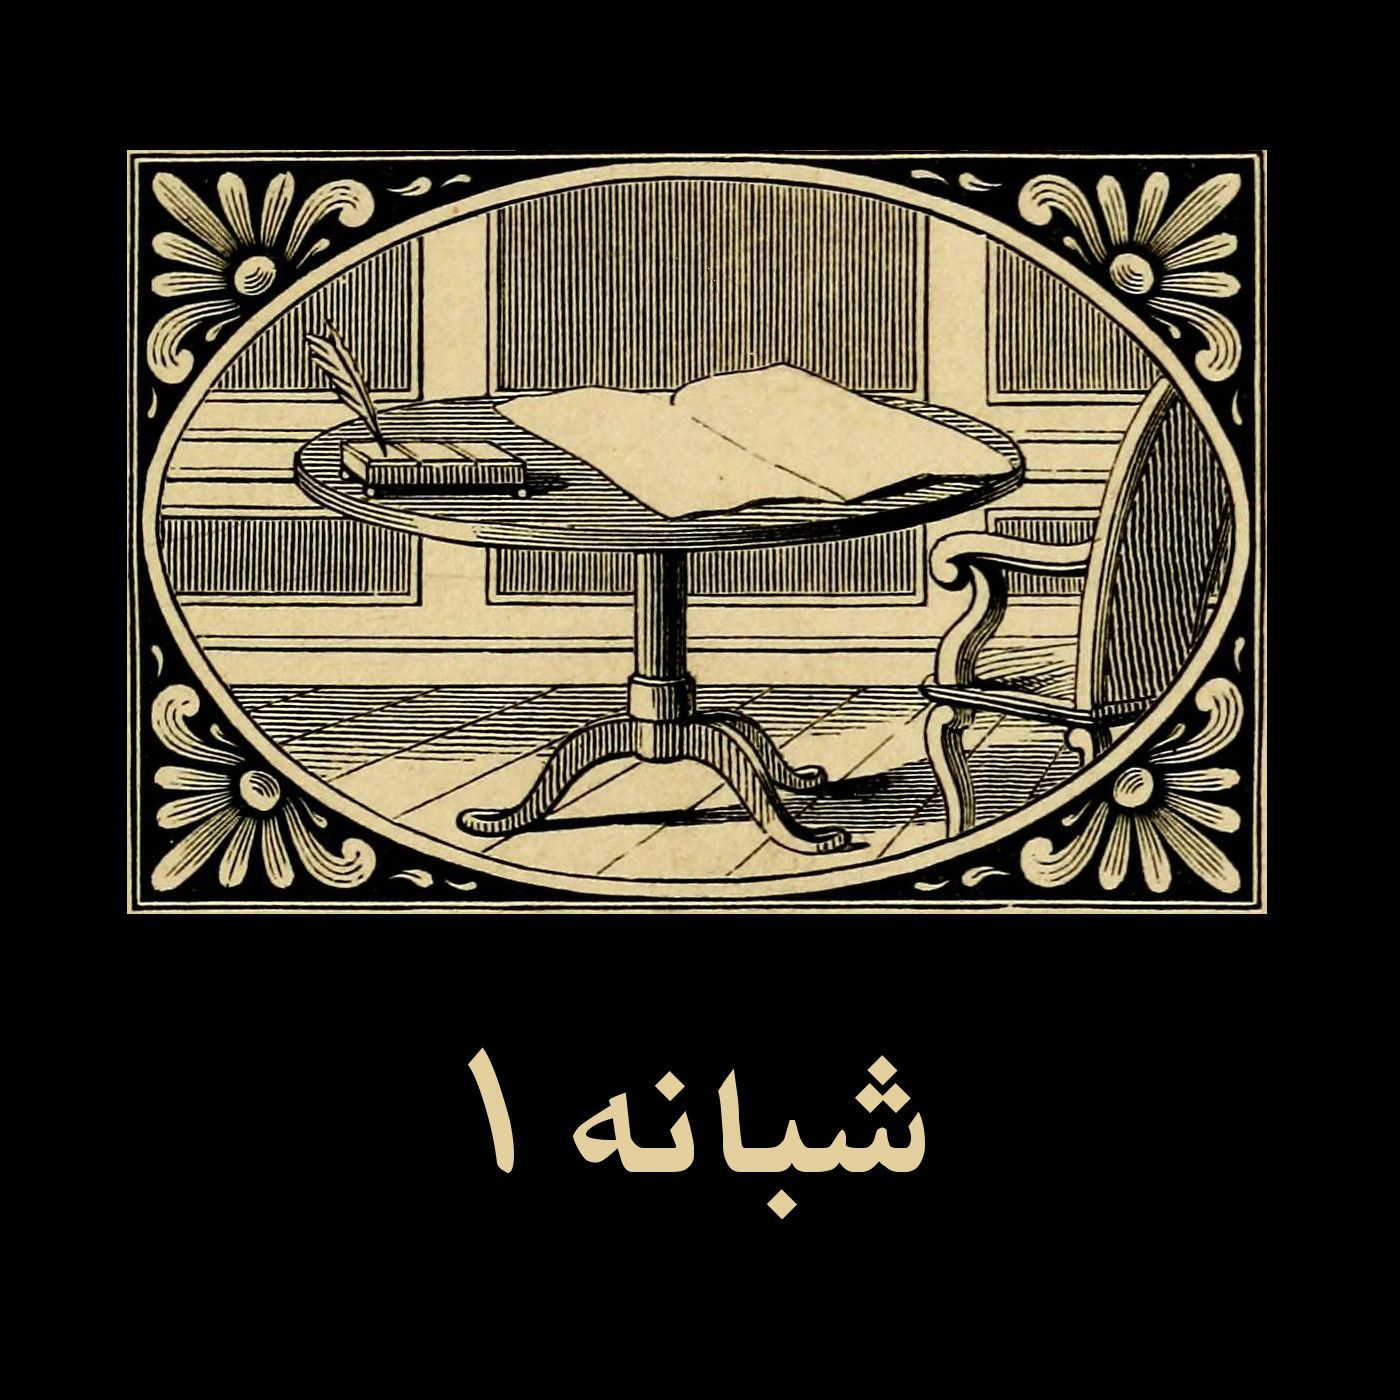
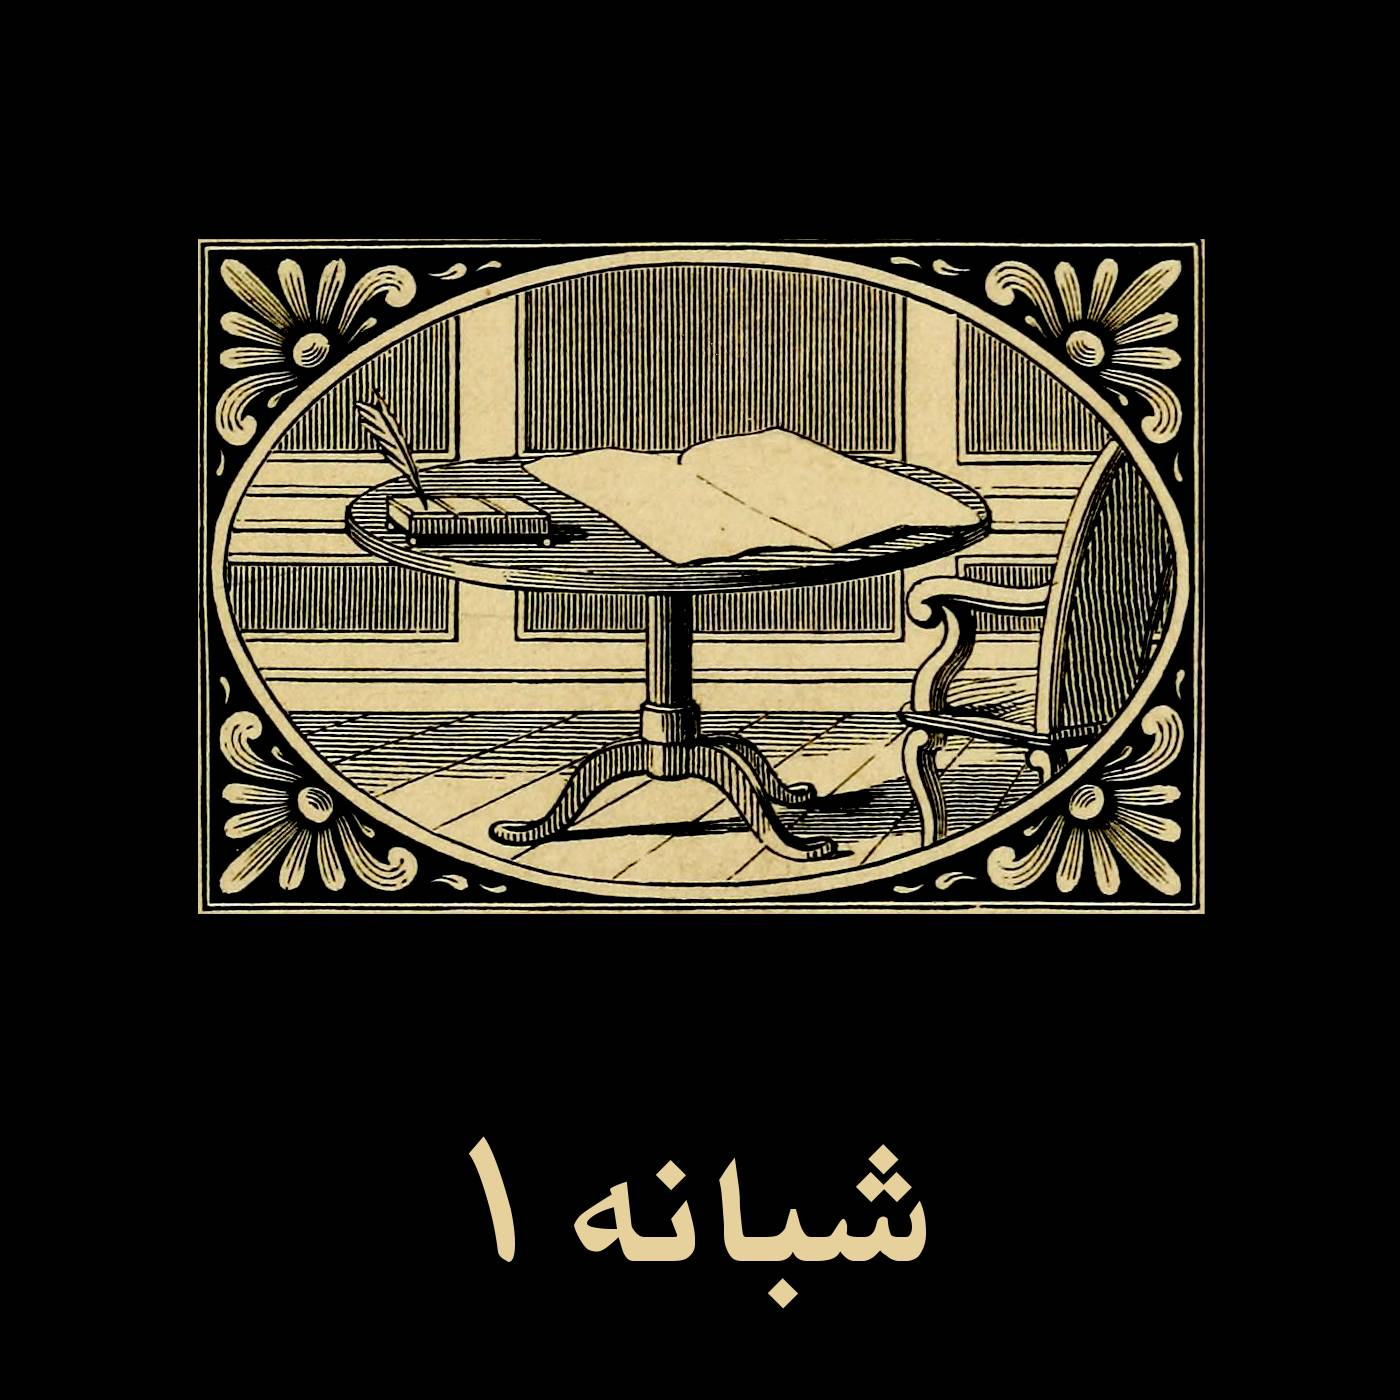
UPDATE podcast artwork

diff --git a/_posts/2018-08-09-shabane-001.md b/_posts/2018-08-09-shabane-001.md
@@ -43,5 +43,5 @@ podcast:
 
 
 لوپ پیانو پسزمینه: [Alone by Shady Dave (CC BY NC)](https://freesound.org/people/ShadyDave/sounds/277447/)  
-تصویر: [Public Domain (1867)](https://www.flickr.com/photos/internetarchivebookimages/14767982673/)  
+تصویر: [Image from page 125 of "Divine emblems; or Temporal things spiritualized" (1867)](https://www.flickr.com/photos/internetarchivebookimages/14767982673/)  
 
